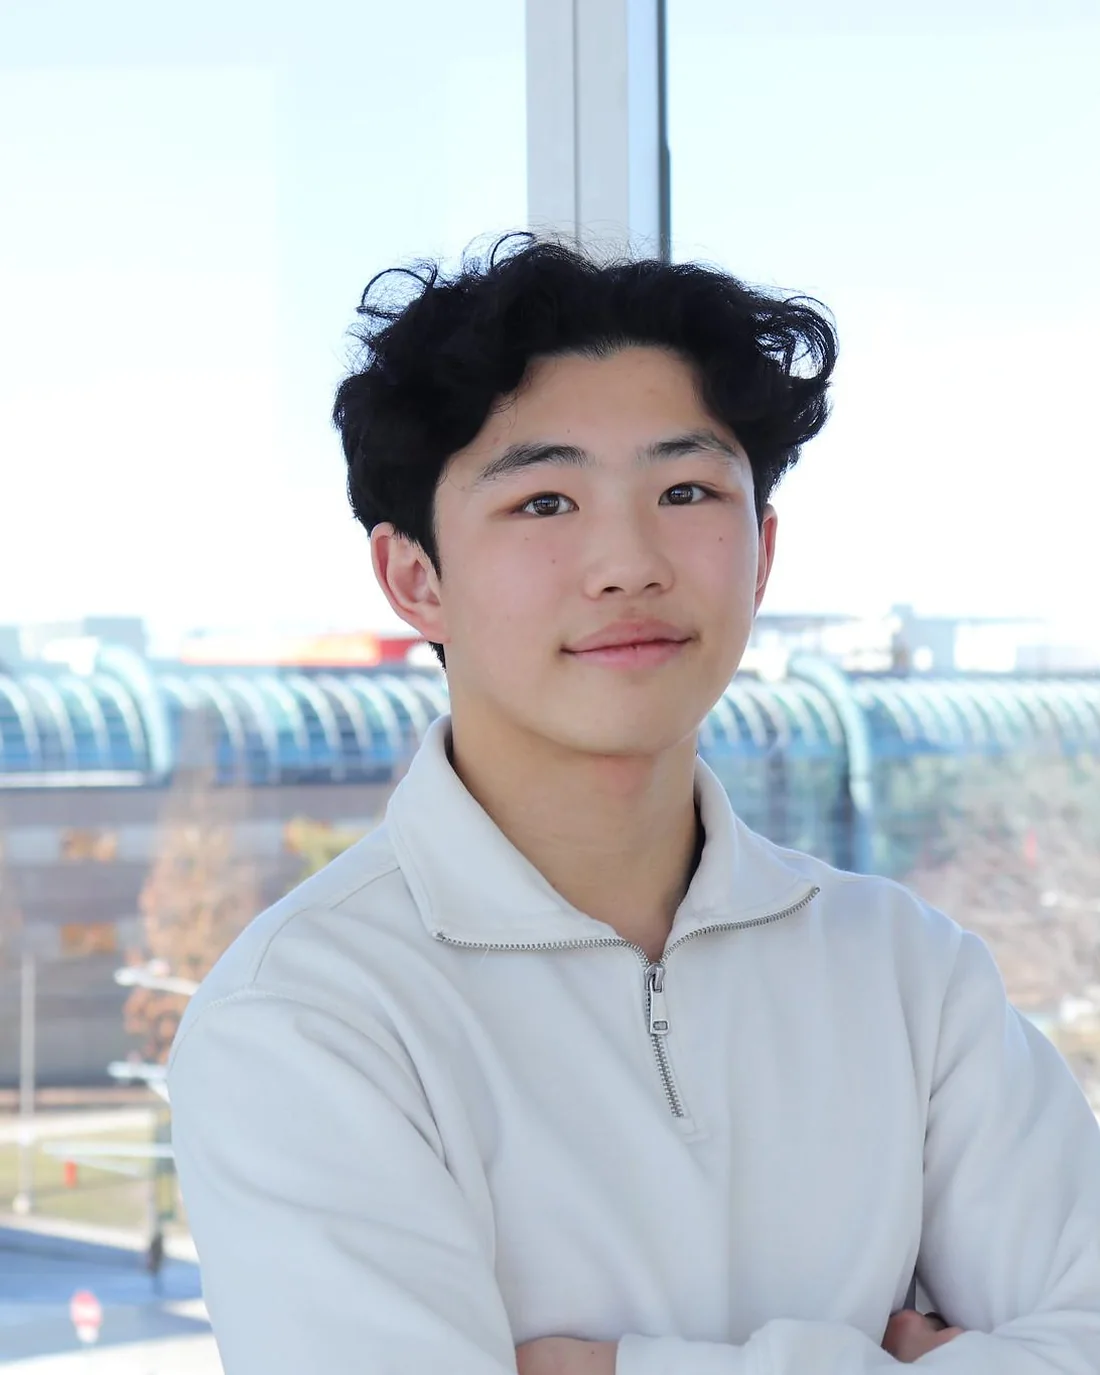
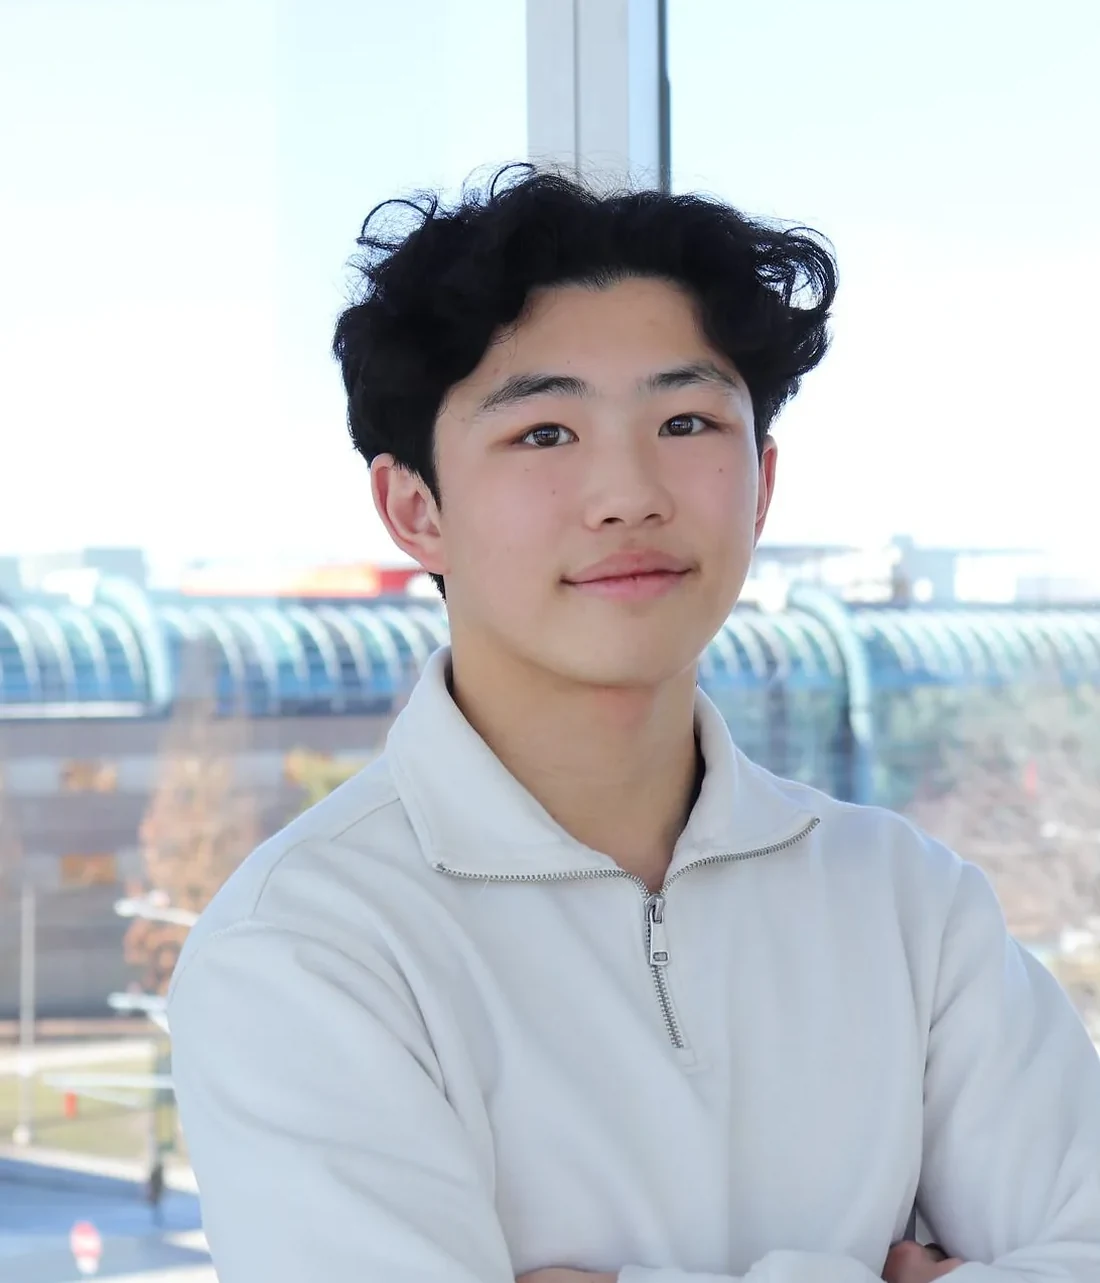
added simulation section

diff --git a/index.html b/index.html
@@ -44,7 +44,7 @@
   <section class="hero wrap">
     <div class="hero__grid reveal">
       <img class="hero__photo" src="assets/img/headshot.webp"
-           alt="Portrait of Austin Li" width="1100" height="1375" fetchpriority="high">
+           alt="Portrait of Austin Li" width="1100" height="1283" fetchpriority="high">
       <div>
         <h1 class="hero__title">Hi, I&rsquo;m Austin Li</h1>
         <p class="hero__lede">Waterloo Mechatronics Engineering student, curious to learn how things work, passionate to make them better.</p>
@@ -112,6 +112,20 @@
     <figure class="">
       <img src="assets/img/p1-winding.webp" alt="Winding diagram for the 36-slot stator: three phases distributed across the slots, with the rotor magnet arcs shown on the outer ring" width="701" height="705" loading="lazy" decoding="async">
       <figcaption>Distributed winding layout calculated for a 36-slot stator, 6-pole rotor.</figcaption>
+    </figure>
+      </div>
+    </div>
+    <h3 class="section-title">Simulation</h3>
+    <p>I created a FEA software to simulate and visualize the magnet field produced by adjacent block magnets. Using this software I proved that block magnets arranged in an arc can create a good approximation of an arc magnet of the same size at close distances. In the regions near the magnets the magnetic field is uniform as it should be.</p>
+    <div class="media-row">
+      <div class="media-row__cell" style="flex:1.1684 1 0">
+    <figure class="">
+      <img src="assets/img/p1-fea-arc.webp" alt="FEA field-line plot of block magnets arranged in an arc, showing the combined field wrapping around the chain of magnets" width="1311" height="1122" loading="lazy" decoding="async">
+    </figure>
+      </div>
+      <div class="media-row__cell" style="flex:1.3361 1 0">
+    <figure class="">
+      <img src="assets/img/p1-fea-ring.webp" alt="FEA vector and magnitude plot of a full ring of block magnets, with a uniform field in the regions close to the magnets" width="1590" height="1190" loading="lazy" decoding="async">
     </figure>
       </div>
     </div>

diff --git a/projects/pmsm-hub-motor.html b/projects/pmsm-hub-motor.html
@@ -99,6 +99,20 @@
     </figure>
       </div>
     </div>
+    <h3 class="section-title">Simulation</h3>
+    <p>I created a FEA software to simulate and visualize the magnet field produced by adjacent block magnets. Using this software I proved that block magnets arranged in an arc can create a good approximation of an arc magnet of the same size at close distances. In the regions near the magnets the magnetic field is uniform as it should be.</p>
+    <div class="media-row">
+      <div class="media-row__cell" style="flex:1.1684 1 0">
+    <figure class="">
+      <img src="../assets/img/p1-fea-arc.webp" alt="FEA field-line plot of block magnets arranged in an arc, showing the combined field wrapping around the chain of magnets" width="1311" height="1122" loading="lazy" decoding="async">
+    </figure>
+      </div>
+      <div class="media-row__cell" style="flex:1.3361 1 0">
+    <figure class="">
+      <img src="../assets/img/p1-fea-ring.webp" alt="FEA vector and magnitude plot of a full ring of block magnets, with a uniform field in the regions close to the magnets" width="1590" height="1190" loading="lazy" decoding="async">
+    </figure>
+      </div>
+    </div>
     <h3 class="section-title">Field Oriented Control</h3>
     <p>I wanted to use field oriented control (FOC) to drive this motor. This meant two things that needed to be different from a typical motor: encoder to detect position, and large arc magnets in the rotor.</p>
     <p>Finding a place to put a magnetic encoder proved difficult because it meant needing to split the shaft to make the encoder concentric with the motor, however, supporting the stator from only one end would severely compromise its rigidity which is a concern as it experiences extreme magnetic forces.</p>

diff --git a/assets/css/site.css b/assets/css/site.css
@@ -193,7 +193,7 @@ img, video, canvas { display: block; max-width: 100%; height: auto; }
 }
 .hero__photo {
   width: 100%;
-  aspect-ratio: 4 / 5;
+  aspect-ratio: 6 / 7;
   object-fit: cover;
   border-radius: 3px;
   filter: saturate(.96);

diff --git a/tools/build.py b/tools/build.py
@@ -102,6 +102,18 @@ PROJECTS = [
             'with the rotor magnet arcs shown on the outer ring',
             'Distributed winding layout calculated for a 36-slot stator, 6-pole rotor.')),
 
+    h('Simulation'),
+    p('I created a FEA software to simulate and visualize the magnet field produced by adjacent '
+      'block magnets. Using this software I proved that block magnets arranged in an arc can '
+      'create a good approximation of an arc magnet of the same size at close distances. In the '
+      'regions near the magnets the magnetic field is uniform as it should be.'),
+    row(img('p1-fea-arc',
+            'FEA field-line plot of block magnets arranged in an arc, showing the combined field '
+            'wrapping around the chain of magnets'),
+        img('p1-fea-ring',
+            'FEA vector and magnitude plot of a full ring of block magnets, with a uniform field '
+            'in the regions close to the magnets')),
+
     h('Field Oriented Control'),
     p('I wanted to use field oriented control (FOC) to drive this motor. This meant two things that '
       'needed to be different from a typical motor: encoder to detect position, and large arc '
@@ -513,7 +525,7 @@ def build_index():
   <section class="hero wrap">
     <div class="hero__grid reveal">
       <img class="hero__photo" src="assets/img/headshot.webp"
-           alt="Portrait of Austin Li" width="1100" height="1375" fetchpriority="high">
+           alt="Portrait of Austin Li" width="1100" height="1283" fetchpriority="high">
       <div>
         <h1 class="hero__title">Hi, I&rsquo;m Austin Li</h1>
         <p class="hero__lede">{SITE['lede']}</p>

diff --git a/README.md b/README.md
@@ -1,4 +1,108 @@
 # austinnnli.github.io
 
 Personal portfolio for **Austin Li** — Waterloo Mechatronics Engineering.
-Plain static HTML/CSS/JS. 
+Plain static HTML/CSS/JS. No build step is required to deploy.
+
+---
+
+## Before you publish: add your resume
+
+`assets/resume.pdf` is a **placeholder**. Drop your own PDF in at that exact
+path and the header link works everywhere — no code changes needed.
+
+---
+
+## Previewing it locally
+
+Don't open `index.html` by double-clicking it. Browsers block `fetch()` on
+`file://` URLs, so the 3D trailer viewer will say it can't load the model
+(everything else works). Serve the folder instead:
+
+```bash
+cd austinnnli.github.io
+python -m http.server 8000
+```
+
+Then open <http://localhost:8000>. On GitHub Pages this doesn't apply — it's
+served over HTTP, so the viewer works normally.
+
+---
+
+## Deploying to GitHub Pages
+
+1. Create a repository named **`austinnnli.github.io`**.
+2. Copy everything in this folder into it (including the hidden `.nojekyll`
+   file — it tells GitHub to serve the files as-is).
+3. `git add . && git commit -m "portfolio" && git push`
+4. Repo **Settings → Pages → Source → Deploy from a branch → `main` / `root`**.
+
+The site goes live at `https://austinnnli.github.io` in a minute or two.
+
+Every project also has its own permanent URL, ready to paste into a paper
+portfolio or an application:
+
+| Project | URL |
+|---|---|
+| PMSM OneWheel Hub Motor | `/projects/pmsm-hub-motor.html` |
+| FORC Speed Controller | `/projects/forc-speed-controller.html` |
+| Autonomous Pool-Playing Robot | `/projects/pool-robot.html` |
+| AutoCleat | `/projects/autocleat.html` |
+| Cycloidal Gearbox | `/projects/cycloidal-gearbox.html` |
+| Rocket Transport Trailer CAD | `/projects/rocket-trailer.html` |
+
+---
+
+## Layout
+
+```
+index.html            main page — hero + all six projects on the timeline
+gallery.html          bento-box grid of project covers
+projects/*.html       one standalone, shareable page per project
+assets/css/site.css   the whole design system
+assets/js/site.js     header, contact modal, timeline rail, skip button
+assets/js/cadview.js  dependency-free WebGL viewer for the .glb model
+assets/img/           WebP photos and video posters
+assets/video/         H.264 MP4s (muted, looping, autoplay in view)
+assets/model/         trailer.glb — the STEP file, tessellated
+tools/                scripts that generated the pages and assets
+```
+
+## Editing content
+
+All copy and image ordering lives in one list, `PROJECTS`, at the top of
+`tools/build.py`. Edit it and re-run:
+
+```bash
+cd tools && python3 build.py
+```
+
+That rewrites `index.html`, `gallery.html` and all six project pages so they
+never drift apart. Nothing else needs touching. (Requires Python 3 + Pillow.)
+
+To add a project: append a dict to `PROJECTS`, add a `.t-<name>` rule to the
+`.bento` grid in `site.css`, and re-run the build.
+
+## The 3D trailer viewer
+
+`tools/tess.py` is a small STEP (AP214) reader and tessellator written for
+this site — it parses the B-rep, meshes planes, cylinders, spheres, tori and
+NURBS edges, keeps the per-solid colours, and writes a compact `.glb` with a
+line primitive holding the real CAD edges. Regenerate with:
+
+```bash
+python3 tools/tess.py path/to/trailer.STEP assets/model/trailer.glb 0.0005
+```
+
+The last argument is the chord tolerance as a fraction of the model diagonal —
+smaller means a finer mesh and a bigger file (0.0005 ≈ 26k triangles, 0.8 MB).
+
+`assets/js/cadview.js` renders it with hand-written WebGL — no three.js, no
+CDN, nothing to break.
+
+## Notes
+
+- Fonts come from Google Fonts (Inter / Inter Tight) with a system-sans
+  fallback, so the site still looks right if that request is blocked.
+- Videos are muted and only play while on screen, so they cost nothing until
+  a visitor reaches them.
+- Everything respects `prefers-reduced-motion`.
